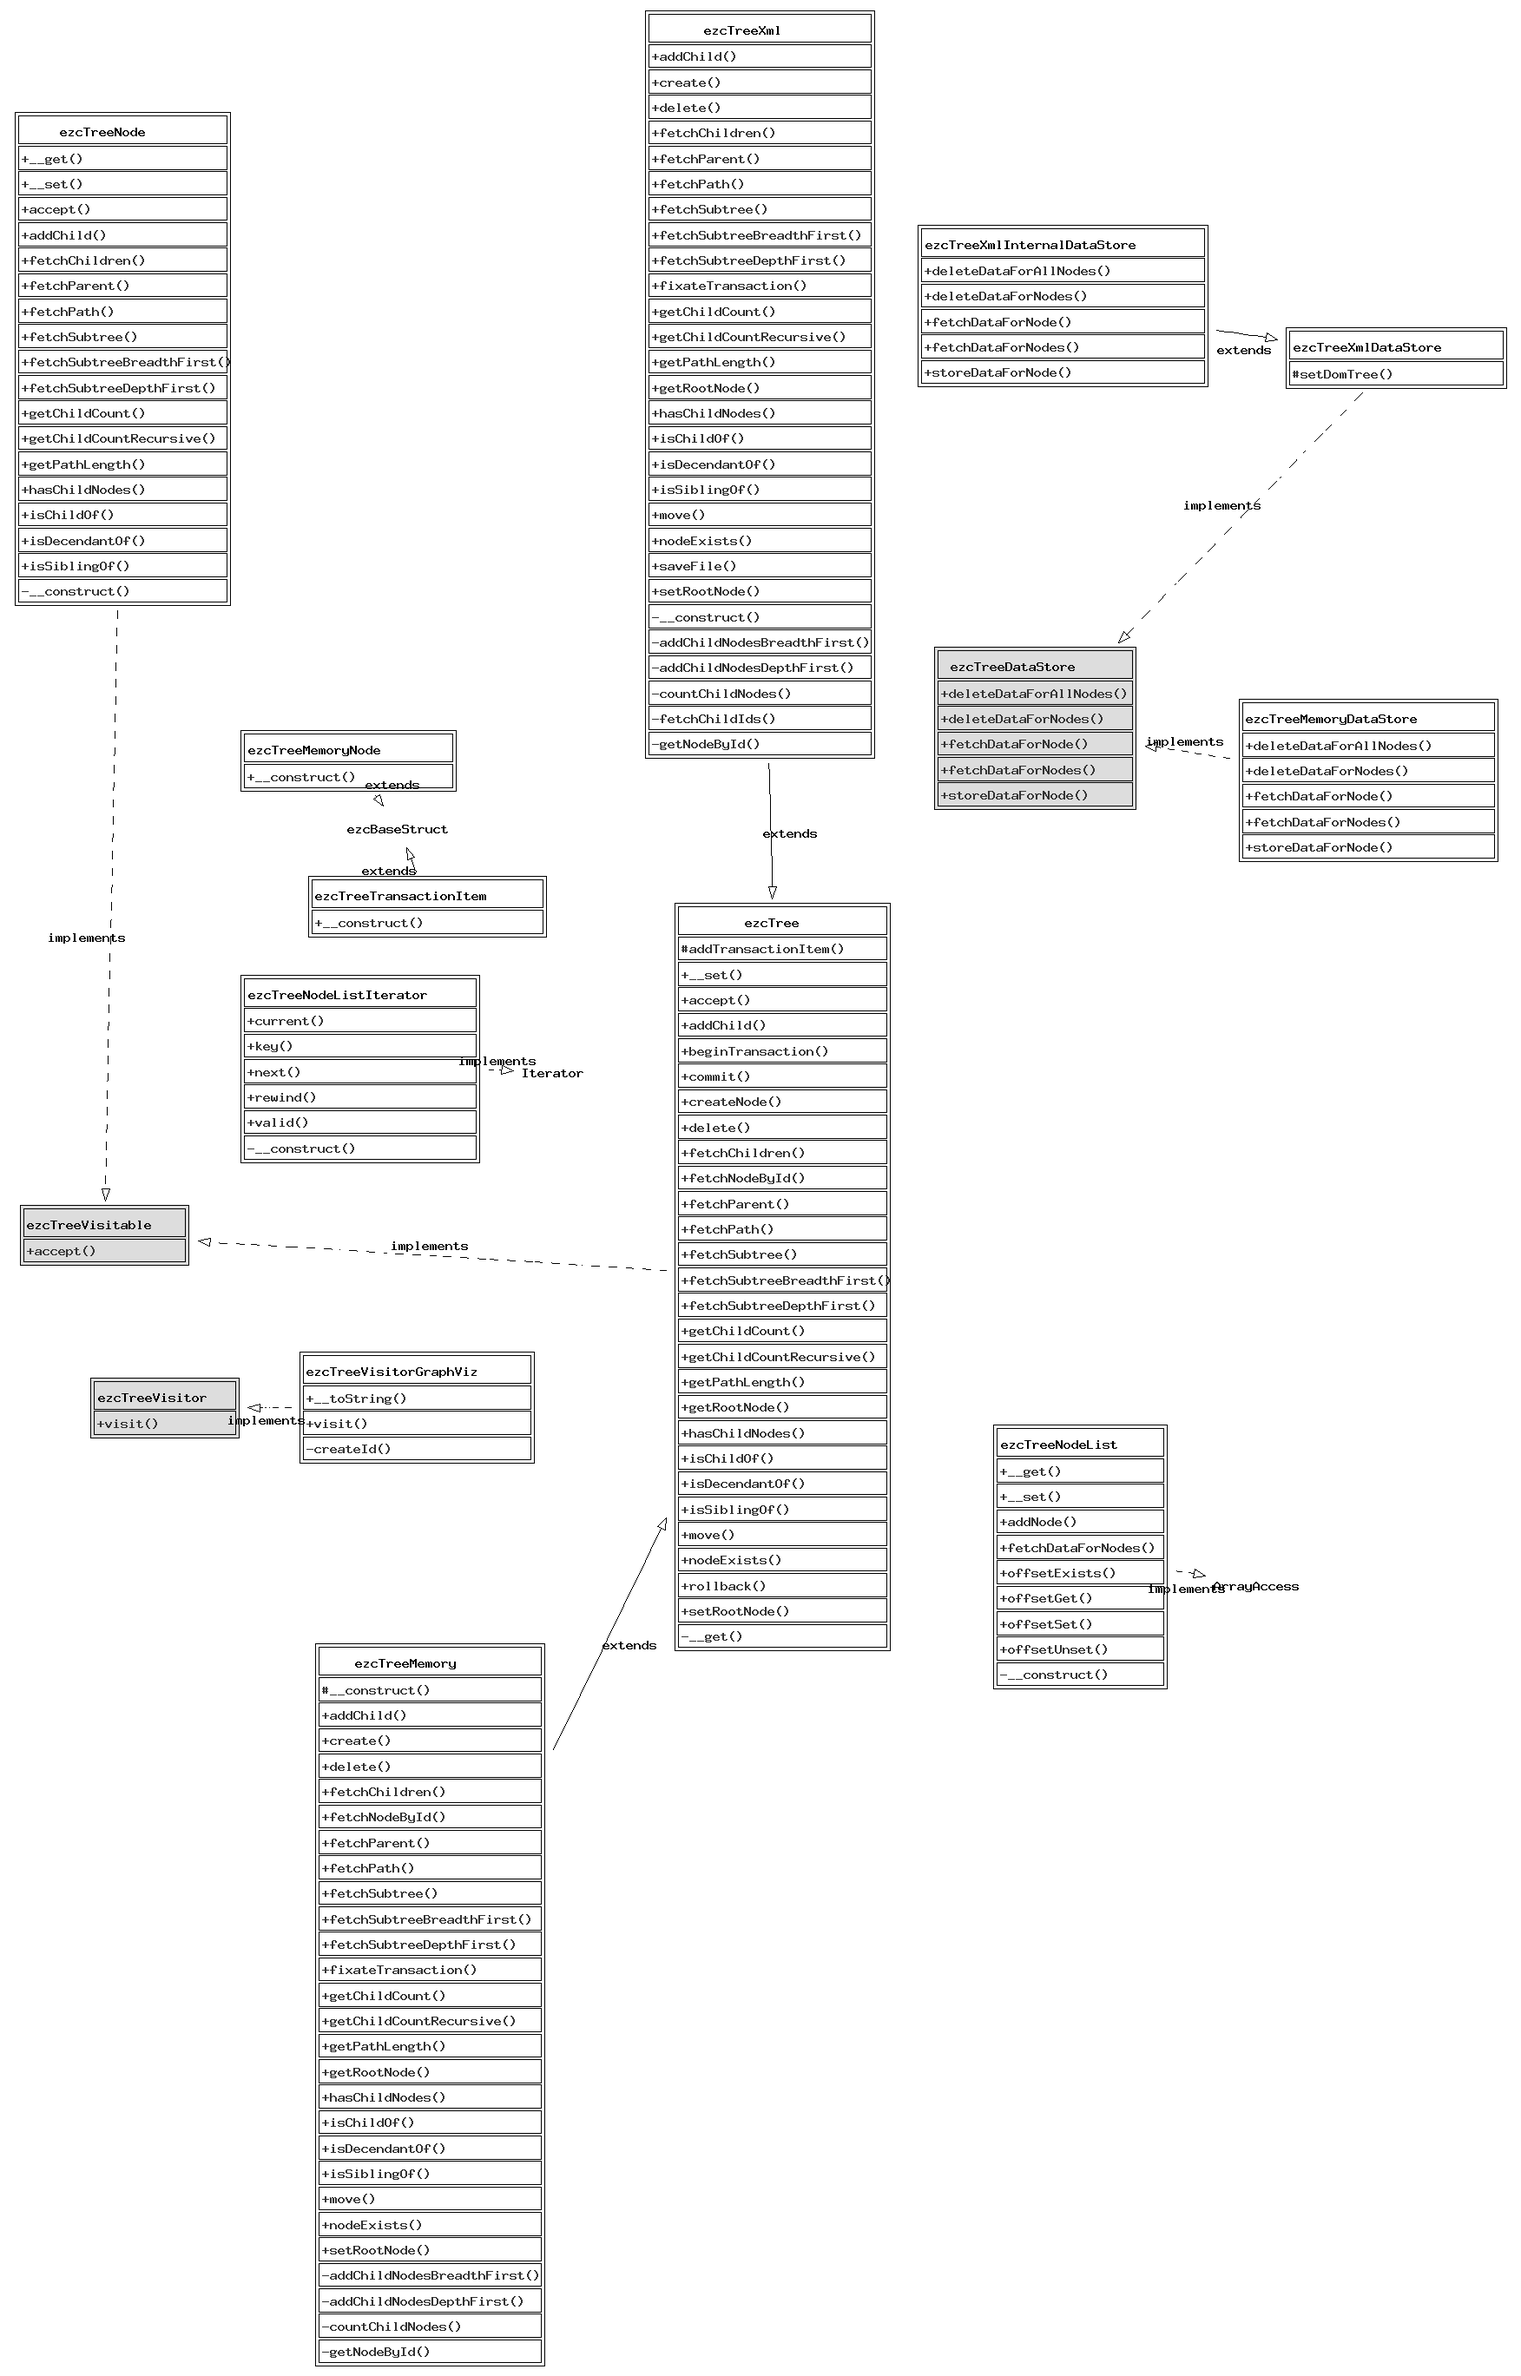
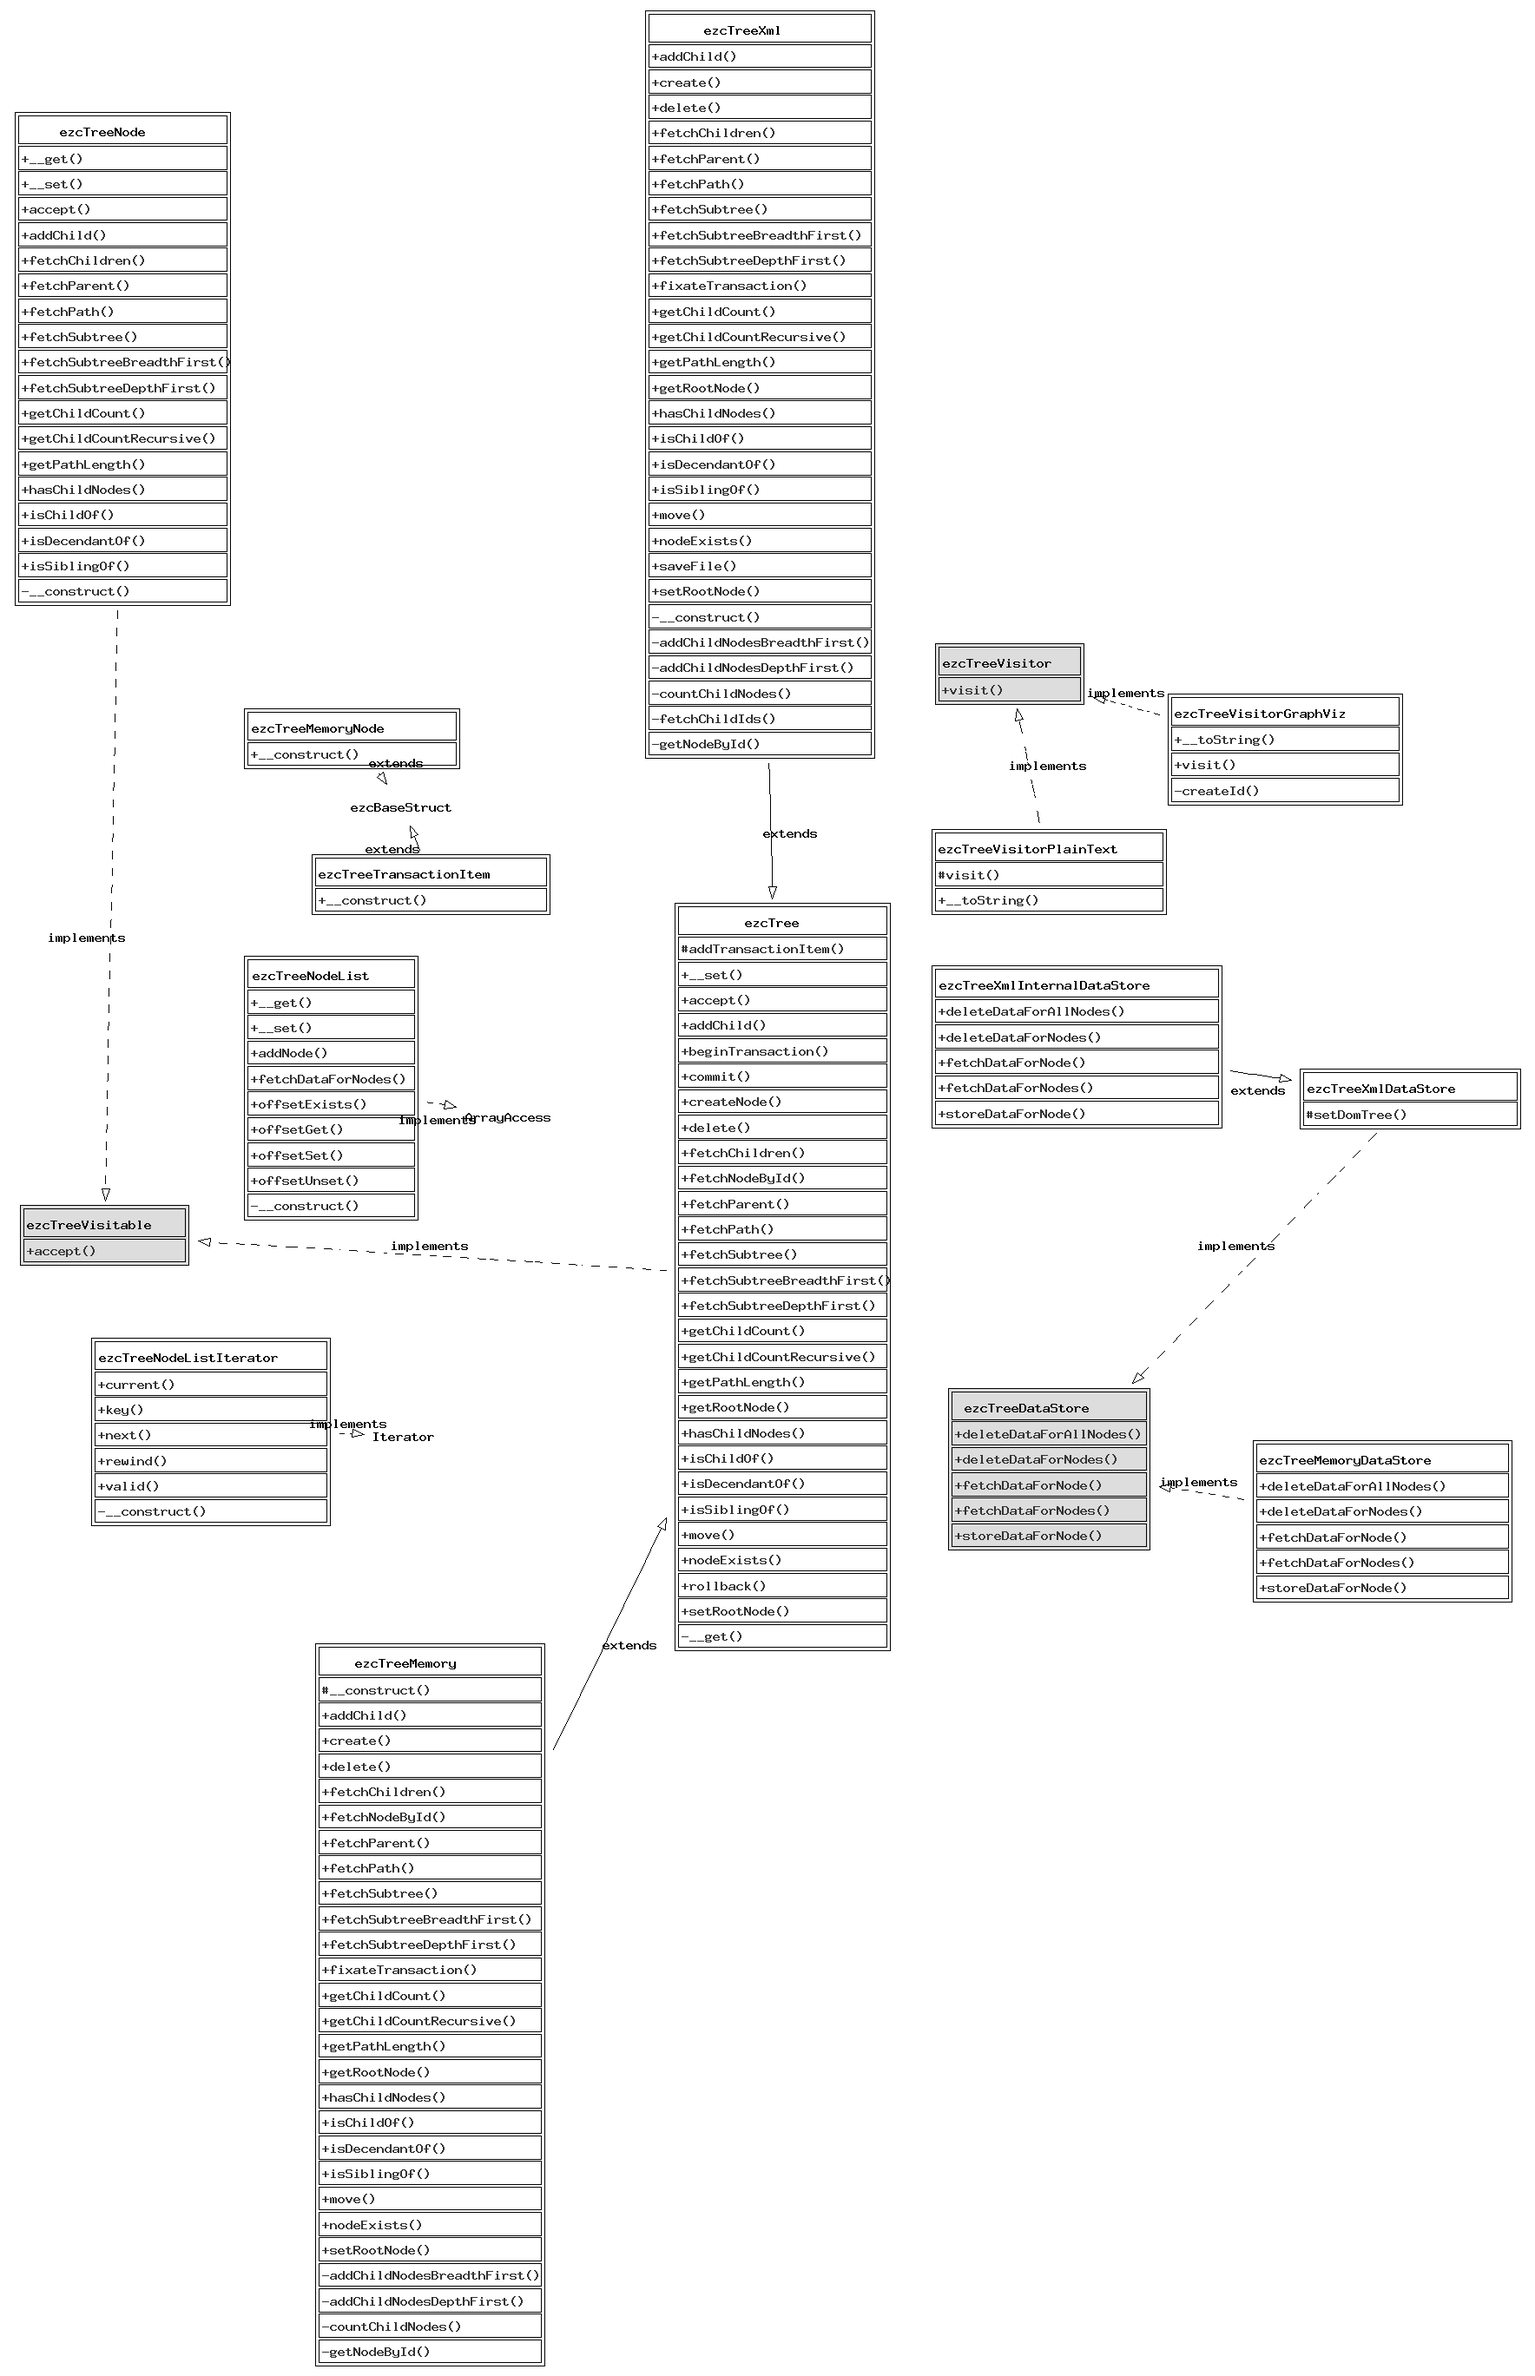
- Implemented a new visitor that displays a tree structure as a text   representation.

diff --git a/src/visitors/plain_text.php b/src/visitors/plain_text.php
@@ -1,0 +1,198 @@
+<?php
+/**
+ * File containing the ezcTreeVisitorPlainText class.
+ *
+ * @package Tree
+ * @version //autogen//
+ * @copyright Copyright (C) 2005-2007 eZ systems as. All rights reserved.
+ * @license http://ez.no/licenses/new_bsd New BSD License
+ */
+
+/**
+ * An implementation of the ezcTreeVisitor interface that generates
+ * a plain text representatation of a tree structure.
+ *
+ * <code>
+ * <?php
+ *     $visitor = new ezcTreeVisitorPlainText( ezcTreeVisitorPlainText::SYMBOL_UTF8 );
+ *     $tree->accept( $visitor );
+ *     echo (string) $visitor; // print the plot
+ * ?>
+ * </code>
+ *
+ * Shows (something like):
+ * <code>
+ * Hylobatidae
+ * ├─Hylobates
+ * │ ├─Lar Gibbon
+ * │ ├─Agile Gibbon
+ * │ ├─Müller's Bornean Gibbon
+ * │ ├─Silvery Gibbon
+ * │ ├─Pileated Gibbon
+ * │ └─Kloss's Gibbon
+ * ├─Hoolock
+ * │ ├─Western Hoolock Gibbon
+ * │ └─Eastern Hoolock Gibbon
+ * ├─Symphalangus
+ * └─Nomascus
+ *   ├─Black Crested Gibbon
+ *   ├─Eastern Black Crested Gibbon
+ *   ├─White-cheecked Crested Gibbon
+ *   └─Yellow-cheecked Gibbon
+ * </code>
+ *
+ * @package Tree
+ * @version //autogen//
+ */
+class ezcTreeVisitorPlainText implements ezcTreeVisitor
+{
+    /**
+     * Represents the ASCII symbol set
+     */
+    const SYMBOL_ASCII = 1;
+
+    /**
+     * Represents the UTF-8 symbol set
+     */
+    const SYMBOL_UTF8 = 2;
+
+    /**
+     * Holds all the edges of the graph.
+     *
+     * @var array(string=>array(string))
+     */
+    protected $edges = array();
+
+    /**
+     * Holds the root ID
+     *
+     * @var string
+     */
+    protected $root = null;
+
+    /**
+     * Constructs a new ezcTreeVisitorPlainText visualizer using $symbolCharset as character set
+     *
+     * This class only supports 'ascii' and 'utf-8' as character sets.
+     * @see SYMBOL_UTF8
+     * @see SYMBOL_ASCII
+     *
+     * @param int $symbolCharset
+     */
+    public function __construct( $symbolCharset = self::SYMBOL_UTF8 )
+    {
+        switch( $symbolCharset )
+        {
+            case self::SYMBOL_ASCII:
+                $symbols = array( '|', '+', '-', '+' );
+                break;
+            case self::SYMBOL_UTF8:
+            default:
+                $symbols = array( '│', '├', '─', '└' );
+        }
+        $this->symbolPipe   = $symbols[0];
+        $this->symbolTee    = $symbols[1];
+        $this->symbolLine   = $symbols[2];
+        $this->symbolCorner = $symbols[3];
+    }
+
+    /**
+     * Visits the node and sets the the member variables according to the node
+     * type and contents.
+     *
+     * @param ezcTreeVisitable $visitable
+     * @return boolean
+     */
+    public function visit( ezcTreeVisitable $visitable )
+    {
+        if ( $visitable instanceof ezcTree )
+        {
+        }
+
+        if ( $visitable instanceof ezcTreeNode )
+        {
+            if ( $this->root === null )
+            {
+                $this->root = $visitable->id;
+            }
+
+            $parent = $visitable->fetchParent();
+            if ( $parent )
+            {
+                $this->edges[$parent->id][] = $visitable->id;
+            }
+        }
+
+        return true;
+    }
+
+    /**
+     * Loops over the children of the node with ID $id.
+     *
+     * This methods loops over all the node's children and adds the correct
+     * layout for each node depending on the state that is collected in the
+     * $level and $levelLast variables.
+     *
+     * @param string $id
+     * @param int    $level
+     * @param array(int=>bool) $levelLast
+     *
+     * @return string
+     */
+    private function doChildren( $id, $level = 0, $levelLast = array() )
+    {
+        $text = '';
+
+        if ( !isset( $this->edges[$id] ) )
+        {
+            return $text;
+        }
+        $children = $this->edges[$id];
+        $numChildren = count( $children );
+
+        $count = 0;
+        foreach ( $children as $child )
+        {
+            $count++;
+            for ( $i = 0; $i < $level; $i++ )
+            {
+                if ( isset( $levelLast[$i] ) && $levelLast[$i] )
+                {
+                    $text .= '  ';
+                }
+                else
+                {
+                    $text .= "{$this->symbolPipe} ";
+                }
+            }
+            if ( $count != $numChildren )
+            {
+                $text .= "{$this->symbolTee}{$this->symbolLine}";
+                $levelLast[$level] = false;
+            }
+            else
+            {
+                $text .= "{$this->symbolCorner}{$this->symbolLine}";
+                $levelLast[$level] = true;
+            }
+            $text .= $child . "\n";
+            $text .= $this->doChildren( $child, $level + 1, $levelLast );
+        }
+
+        return $text;
+    }
+
+    /**
+     * Returns a text representatation of a tree.
+     *
+     * @return string
+     * @ignore
+     */
+    public function __toString()
+    {
+        $tree = $this->root . "\n";
+        $tree .= $this->doChildren( $this->root );
+        return $tree;
+    }
+}
+?>

diff --git a/tests/visitor.php b/tests/visitor.php
@@ -109,6 +109,109 @@ class ezcTreeVisitorTest extends ezcTestCase
         self::assertSame( 'c422c6271ff3c9a213156e660a1ba8b2', md5( (string) $visitor ) );
     }
 
+    public function testVisitor2()
+    {
+        $tree = ezcTreeMemory::create( new ezcTreeMemoryDataStore() );
+        $this->addTestData( $tree );
+
+        $expected = <<<END
+Hominoidea
+├─Hylobatidae
+│ ├─Hylobates
+│ │ ├─Lar Gibbon
+│ │ ├─Agile Gibbon
+│ │ ├─Müller's Bornean Gibbon
+│ │ ├─Silvery Gibbon
+│ │ ├─Pileated Gibbon
+│ │ └─Kloss's Gibbon
+│ ├─Hoolock
+│ │ ├─Western Hoolock Gibbon
+│ │ └─Eastern Hoolock Gibbon
+│ ├─Symphalangus
+│ └─Nomascus
+│   ├─Black Crested Gibbon
+│   ├─Eastern Black Crested Gibbon
+│   ├─White-cheecked Crested Gibbon
+│   └─Yellow-cheecked Gibbon
+└─Hominidae
+  ├─Pongo
+  │ ├─Bornean Orangutan
+  │ └─Sumatran Orangutan
+  ├─Gorilla
+  │ ├─Western Gorilla
+  │ │ ├─Western Lowland Gorilla
+  │ │ └─Cross River Gorilla
+  │ └─Eastern Gorilla
+  │   ├─Mountain Gorilla
+  │   └─Eastern Lowland Gorilla
+  ├─Homo
+  │ └─Homo Sapiens
+  │   ├─Homo Sapiens Sapiens
+  │   └─Homo Superior
+  └─Pan
+    ├─Common Chimpanzee
+    └─Bonobo
+
+END;
+
+        $visitor = new ezcTreeVisitorPlainText;
+        $tree->accept( $visitor );
+        self::assertSame( $expected, (string) $visitor );
+
+        $visitor = new ezcTreeVisitorPlainText( ezcTreeVisitorPlainText::SYMBOL_UTF8 );
+        $tree->accept( $visitor );
+        self::assertSame( $expected, (string) $visitor );
+    }
+
+    public function testVisitor3()
+    {
+        $tree = ezcTreeMemory::create( new ezcTreeMemoryDataStore() );
+        $this->addTestData( $tree );
+
+        $visitor = new ezcTreeVisitorPlainText( ezcTreeVisitorPlainText::SYMBOL_ASCII );
+        $tree->accept( $visitor );
+        $expected = <<<END
+Hominoidea
++-Hylobatidae
+| +-Hylobates
+| | +-Lar Gibbon
+| | +-Agile Gibbon
+| | +-Müller's Bornean Gibbon
+| | +-Silvery Gibbon
+| | +-Pileated Gibbon
+| | +-Kloss's Gibbon
+| +-Hoolock
+| | +-Western Hoolock Gibbon
+| | +-Eastern Hoolock Gibbon
+| +-Symphalangus
+| +-Nomascus
+|   +-Black Crested Gibbon
+|   +-Eastern Black Crested Gibbon
+|   +-White-cheecked Crested Gibbon
+|   +-Yellow-cheecked Gibbon
++-Hominidae
+  +-Pongo
+  | +-Bornean Orangutan
+  | +-Sumatran Orangutan
+  +-Gorilla
+  | +-Western Gorilla
+  | | +-Western Lowland Gorilla
+  | | +-Cross River Gorilla
+  | +-Eastern Gorilla
+  |   +-Mountain Gorilla
+  |   +-Eastern Lowland Gorilla
+  +-Homo
+  | +-Homo Sapiens
+  |   +-Homo Sapiens Sapiens
+  |   +-Homo Superior
+  +-Pan
+    +-Common Chimpanzee
+    +-Bonobo
+
+END;
+        self::assertSame( $expected, (string) $visitor );
+    }
+
     public static function suite()
     {
          return new PHPUnit_Framework_TestSuite( "ezcTreeVisitorTest" );

diff --git a/src/tree_autoload.php b/src/tree_autoload.php
@@ -32,6 +32,7 @@ return array(
     'ezcTreeNodeListIterator'                   => 'Tree/tree_node_list_iterator.php',
     'ezcTreeTransactionItem'                    => 'Tree/structs/transaction_item.php',
     'ezcTreeVisitorGraphViz'                    => 'Tree/visitors/graphviz.php',
+    'ezcTreeVisitorPlainText'                   => 'Tree/visitors/plain_text.php',
     'ezcTreeXml'                                => 'Tree/backends/xml.php',
     'ezcTreeXmlInternalDataStore'               => 'Tree/stores/xml_internal.php',
 );
